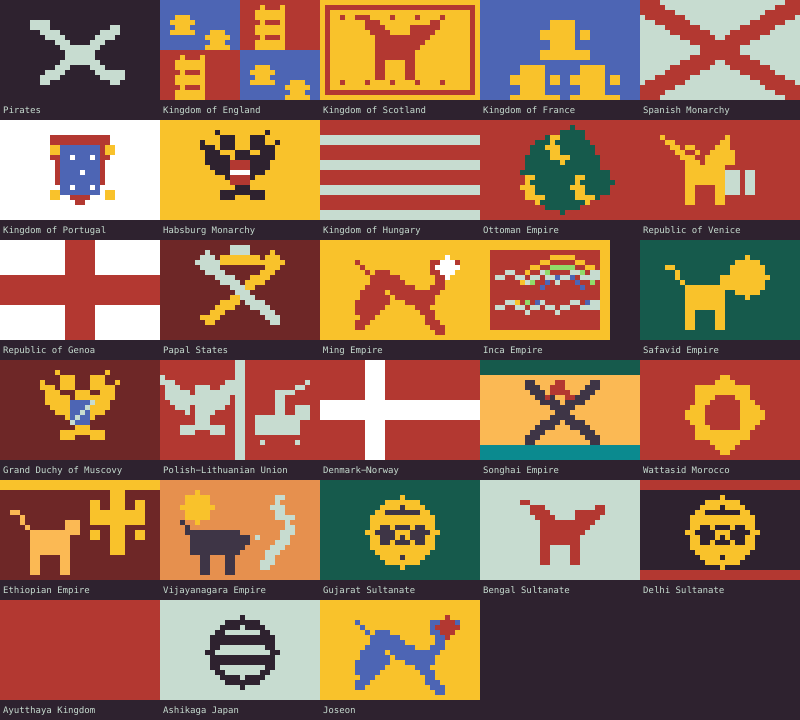
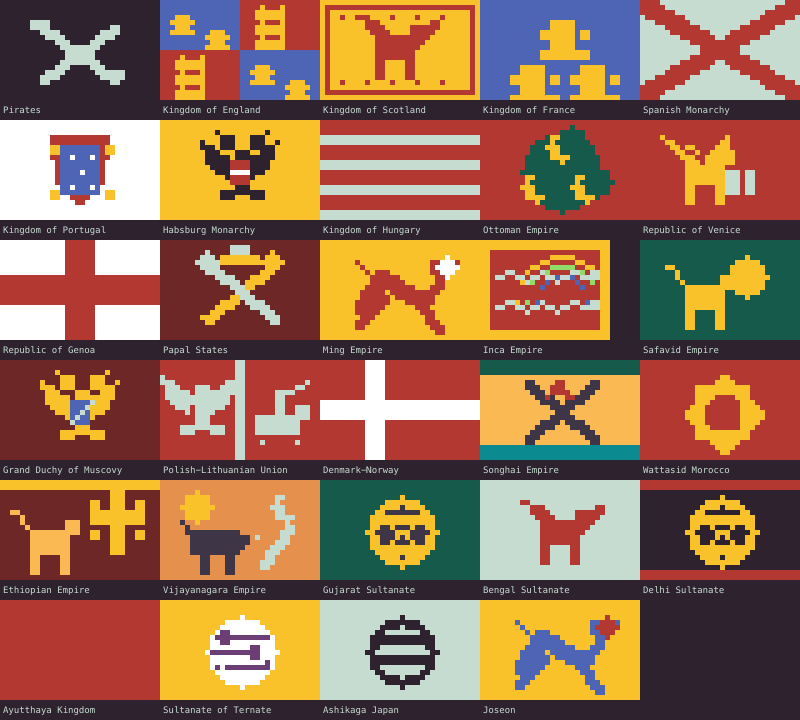
Add the Ternate Sultanate

Changed region(s): [[0.1875, 0.825, 0.8125, 1.0]]

diff --git a/apps/pixel-globe/src/factions.test.js b/apps/pixel-globe/src/factions.test.js
@@ -38,10 +38,13 @@ test("every faction separates its noun and adjective forms", () => {
   }
   const portugal = FACTIONS.find((faction) => faction.id === "portugal");
   const morocco = FACTIONS.find((faction) => faction.id === "morocco");
+  const ternate = FACTIONS.find((faction) => faction.id === "ternate");
   assert.equal(portugal.shortName, "Portugal");
   assert.equal(portugal.adjective, "Portuguese");
   assert.equal(morocco.shortName, "Morocco");
   assert.equal(morocco.adjective, "Moroccan");
+  assert.equal(ternate.shortName, "Ternate");
+  assert.equal(ternate.adjective, "Ternatan");
   assert.equal(factionNounPhrase("portugal"), "Portugal");
   assert.equal(factionNounPhrase("morocco"), "Morocco");
   assert.equal(factionNounPhrase("ottoman"), "the Ottoman Empire");
@@ -80,6 +83,9 @@ test("matrix captures clear 1522 alliances, wars, and neutral relationships", ()
   assert.equal(diplomacyBetween("ming", "japan"), DIPLOMACY_HOSTILE);
   assert.equal(diplomacyBetween("portugal", "ming"), DIPLOMACY_WAR);
   assert.equal(diplomacyBetween("venice", "genoa"), DIPLOMACY_HOSTILE);
+  assert.equal(diplomacyBetween("ternate", "spain"), DIPLOMACY_HOSTILE);
+  assert.equal(diplomacyBetween("ternate", "portugal"), DIPLOMACY_NEUTRAL);
+  assert.equal(diplomacyBetween("ternate", "ayutthaya"), DIPLOMACY_NEUTRAL);
   assert.equal(diplomacyBetween("inca", "muscovy"), DIPLOMACY_NEUTRAL);
   for (const faction of FACTIONS) {
     if (faction.id !== PIRATE_FACTION_ID) {
@@ -101,7 +107,9 @@ test("representative 1522 cities receive their governing faction", () => {
     ["Mexico City", "Mexico", "spain"],
     ["Cuzco", "Peru", "inca"],
     ["Cairo", "Egypt", "ottoman"],
-    ["Hafnarfjordur", "Iceland", "denmark-norway"]
+    ["Hafnarfjordur", "Iceland", "denmark-norway"],
+    ["Ternate", "Indonesia", "ternate"],
+    ["Makian Village", "Indonesia", "ternate"]
   ];
   for (const [city, country, factionId] of cases) {
     assert.equal(factionIdForCity1522({ city, country }), factionId, `${city}, ${country}`);
@@ -143,6 +151,7 @@ test("every sovereign faction has one declared water-accessible capital", () => 
     assert.equal(factionIdForCity1522(capital), capital.factionId, `${capital.city}, ${capital.country}`);
   }
   assert.equal(factionCapitalForId("ming").city, "Beijing");
+  assert.equal(factionCapitalForId("ternate").city, "Ternate");
 });
 
 test("required capital port records cover factions missing a suitable catalog city", () => {

diff --git a/apps/pixel-globe/src/gameState.js b/apps/pixel-globe/src/gameState.js
@@ -180,7 +180,7 @@ import {
 } from "./namedCrew.js";
 
 export const STARTING_DOUBLOONS = 360;
-export const GAME_STATE_VERSION = 39;
+export const GAME_STATE_VERSION = 40;
 export const PORT_NAVIGATION_REASON_NEW_SHIP = "NEW SHIP FOR SALE";
 export const PORT_NAVIGATION_REASON_TRADE_PRICE = "TRADE PRICE TIP";
 export const REPUTATION_MIN = -100;
@@ -422,7 +422,7 @@ export function validateGameState(state) {
 
 export function migrateGameState(state, shipStats) {
   if (state?.version === GAME_STATE_VERSION) return restoreLoadedGameState(state, shipStats);
-  if (![8, 9, 10, 11, 12, 13, 14, 15, 16, 17, 18, 19, 20, 21, 22, 23, 24, 25, 26, 27, 28, 29, 30, 31, 32, 33, 34, 35, 36, 37, 38].includes(state?.version)) {
+  if (![8, 9, 10, 11, 12, 13, 14, 15, 16, 17, 18, 19, 20, 21, 22, 23, 24, 25, 26, 27, 28, 29, 30, 31, 32, 33, 34, 35, 36, 37, 38, 39].includes(state?.version)) {
     throw new Error(`Unsupported game state version: ${state?.version ?? "missing"}`);
   }
   if (state.ship && (!shipStats || typeof shipStats !== "object")) {
@@ -495,8 +495,12 @@ export function migrateGameState(state, shipStats) {
       safePassageUntilMinute: state.version === 8
         ? {}
         : migrateSafePassageTable(state.relations.safePassageUntilMinute),
-      safePassageRefusalUntilMinute: {},
-      mingOpenTradeFactionIds: [...DEFAULT_MING_OPEN_TRADE_FACTION_IDS],
+      safePassageRefusalUntilMinute: migrateSafePassageTable(
+        state.relations.safePassageRefusalUntilMinute || {}
+      ),
+      mingOpenTradeFactionIds: migrateMingOpenTradeFactionIds(
+        state.relations.mingOpenTradeFactionIds
+      ),
       portugueseCartaz: migratePortugueseCartazMemory(state.relations.portugueseCartaz),
       diplomacy: migratedDiplomacy
     },
@@ -588,6 +592,15 @@ function migrateSafePassageTable(table) {
     migrated.spain = Math.max(migrated.spain || 0, table.aztec);
   }
   return migrated;
+}
+
+function migrateMingOpenTradeFactionIds(factionIds) {
+  if (!Array.isArray(factionIds)) return [...DEFAULT_MING_OPEN_TRADE_FACTION_IDS];
+  return [...new Set(factionIds.map(migrateFactionIdTo1522))].filter((factionId) => (
+    factionId !== MING_FACTION_ID &&
+    factionId !== NEUTRAL_FACTION_ID &&
+    factionId !== PIRATE_FACTION_ID
+  ));
 }
 
 function createPortugueseCartazMemory() {

diff --git a/apps/pixel-globe/src/campaignGoals.js b/apps/pixel-globe/src/campaignGoals.js
@@ -904,6 +904,10 @@ const FAMILY_DEBT_ORIGINS_BY_FACTION = Object.freeze({
     "Malacca lost a warehouse. I acquired excellent security.",
     "The warehouse was ours until the Portuguese took the city. It disappeared, but its bills crossed the sea intact."
   ),
+  ternate: debtOrigin(
+    "Cloves drew the Portuguese to your shore. Your family mistook their appetite for a guarantee.",
+    "We provisioned the alliance my father welcomed, then borrowed again when its promises soured. The cloves sold; our account did not."
+  ),
   japan: debtOrigin(
     "The Hosokawa changed sides. The terms of this note did not.",
     "Our house backed the wrong side at Funaokayama. The survivors changed allegiance; our creditors changed the seal."
@@ -940,6 +944,7 @@ const EXPLORER_PATRON_OUTLOOKS_BY_FACTION = Object.freeze({
   bengal: "Portuguese sails have reached Chittagong, bringing maps as uncertain as their intentions. We should know more than our visitors.",
   delhi: "Caravans describe oceans beyond Gujarat and Bengal, each story altered by ten merchants. I want one witness.",
   ayutthaya: "The Portuguese arrived after taking Malacca and now speak of seas beyond Africa. I would hear the world without their interpreter.",
+  ternate: "Portuguese stone rises beside our clove groves while Castilian sails favor Tidore. I want a Ternatan account of the world both crowns claim.",
   japan: "Ming merchants and island pilots carry fragments of distant coasts. I want them joined before rumor distorts them further.",
   joseon: "Our old world maps reach far beyond Joseon, but copied names are not witnessed places. A captain can test what scholars inherited."
 });

diff --git a/apps/pixel-globe/src/factions.js b/apps/pixel-globe/src/factions.js
@@ -43,6 +43,7 @@ export const FACTIONS = Object.freeze([
   faction("bengal", "Bengal Sultanate", "Bengal", "Bengali", "sultanate"),
   faction("delhi", "Delhi Sultanate", "Delhi", "Delhi", "sultanate"),
   faction("ayutthaya", "Ayutthaya Kingdom", "Ayutthaya", "Ayutthayan", "kingdom"),
+  faction("ternate", "Sultanate of Ternate", "Ternate", "Ternatan", "sultanate"),
   faction("japan", "Ashikaga Japan", "Japan", "Japanese", "shogunate"),
   faction("joseon", "Joseon", "Joseon", "Joseon", "kingdom")
 ]);
@@ -88,6 +89,7 @@ export const FACTION_CAPITALS_1522 = Object.freeze([
   capital("bengal", "Gauda", "India"),
   capital("delhi", "Delhi", "India"),
   capital("ayutthaya", "Ayutthaya", "Thailand"),
+  capital("ternate", "Ternate", "Indonesia"),
   capital("japan", "Kyoto", "Japan"),
   capital("joseon", "Seoul", "Republic of Korea")
 ]);
@@ -138,7 +140,8 @@ const HOSTILITIES_1522 = Object.freeze([
   ["venice", "genoa"],
   ["spain", "morocco"],
   ["ming", "japan"],
-  ["bengal", "delhi"]
+  ["bengal", "delhi"],
+  ["ternate", "spain"]
 ]);
 
 const WARS_1522 = Object.freeze([
@@ -235,7 +238,10 @@ const CITY_FACTION_OVERRIDES = uniqueMap([
   cityRule("Multan", "Pakistan", "delhi"),
 
   cityRule("Ayutthaya", "Thailand", "ayutthaya"),
-  cityRule("Sukhothai", "Thailand", "ayutthaya")
+  cityRule("Sukhothai", "Thailand", "ayutthaya"),
+
+  cityRule("Ternate", "Indonesia", "ternate"),
+  cityRule("Makian Village", "Indonesia", "ternate")
 ], "city faction overrides");
 
 const COUNTRY_FACTIONS = uniqueMap([

diff --git a/apps/pixel-globe/src/gameStateReputation.test.js b/apps/pixel-globe/src/gameStateReputation.test.js
@@ -219,6 +219,22 @@ test("version 21 voyages retire Aztec faction references into Spanish Mexico", (
   assert.equal(JSON.stringify(restored).includes("aztec"), false);
 });
 
+test("version 39 voyages gain neutral standing with the new Ternate Sultanate", () => {
+  const saved = createGameState({ cargoCapacity: 20, playerCharacter: PLAYER });
+  saved.version = 39;
+  delete saved.relations.factionReputation.ternate;
+  saved.relations.safePassageRefusalUntilMinute.portugal = 12345;
+  saved.relations.mingOpenTradeFactionIds.push("england");
+
+  const restored = migrateGameState(saved, null);
+
+  assert.equal(restored.version, GAME_STATE_VERSION);
+  assert.equal(restored.relations.factionReputation.ternate, 0);
+  assert.equal(restored.relations.safePassageRefusalUntilMinute.portugal, 12345);
+  assert.deepEqual(restored.relations.mingOpenTradeFactionIds, ["joseon", "england"]);
+  validateGameState(restored);
+});
+
 test("successful trade gives only a tiny faction reputation gain", () => {
   const economy = createWorldEconomy({ ports: [LONDON], startMinute: 0 });
   const state = createGameState({ cargoCapacity: 10, playerCharacter: PLAYER });

diff --git a/apps/pixel-globe/src/rulers.js b/apps/pixel-globe/src/rulers.js
@@ -98,6 +98,12 @@ const RAW_RULER_TIMELINES = Object.freeze({
     yearRuler(1546, "Yot Fa", "King"),
     yearRuler(1548, "Maha Chakkraphat", "King")
   ],
+  ternate: [
+    ruler(1522, 1, 1, "Abu Hayat", "Sultan"),
+    yearRuler(1529, "Dayal", "Sultan"),
+    yearRuler(1533, "Tabariji", "Sultan"),
+    yearRuler(1535, "Hairun Jamil", "Sultan")
+  ],
   japan: [
     ruler(1522, 1, 1, "Ashikaga Yoshiharu", "Shogun"),
     yearRuler(1546, "Ashikaga Yoshiteru", "Shogun")
@@ -117,7 +123,7 @@ const REGIONAL_GROUPS = Object.freeze([
   ["songhai", "morocco", "portugal"],
   ["ethiopia", "ottoman", "portugal", "safavid"],
   ["vijayanagara", "gujarat", "bengal", "delhi", "portugal", "safavid"],
-  ["ayutthaya", "ming", "bengal", "portugal"],
+  ["ayutthaya", "ming", "bengal", "portugal", "ternate"],
   ["ming", "japan", "joseon", "ayutthaya"],
   ["inca", "spain", "portugal"]
 ]);

diff --git a/apps/pixel-globe/src/rulers.test.js b/apps/pixel-globe/src/rulers.test.js
@@ -35,6 +35,9 @@ test("ruler succession happens at its queued date", () => {
   const safavidChange = gameMinuteForDate(1524, 5, 23);
   assert.equal(rulerAtMinute("safavid", safavidChange - 1).name, "Ismail I");
   assert.equal(rulerAtMinute("safavid", safavidChange).name, "Tahmasp I");
+
+  assert.equal(rulerAtMinute("ternate", 0).name, "Abu Hayat");
+  assert.equal(rulerAtMinute("ternate", gameMinuteForDate(1529, 1, 1)).name, "Dayal");
 });
 
 test("ruler change queue is chronological and excludes its starting boundary", () => {

diff --git a/apps/pixel-globe/docs/faction-flags.md b/apps/pixel-globe/docs/faction-flags.md
@@ -32,6 +32,7 @@ All pixels use the Resurrect 64 palette. Regenerate with `npm run render:faction
 | Bengal Sultanate | Red lion on white | `near-period-banner` | The red lion banner appears in the Catalan Atlas and the lion remained a Bengali sultanic emblem; a 1521 account also describes guards carrying lion-painted shields. Sources: [Bengal Sultanate flag evidence](https://commons.wikimedia.org/wiki/File:Bengal_Sultanate_flag.svg). |
 | Delhi Sultanate | Lodi black standard with coin roundel | `reconstruction` | No secure Lodi banner was found. Black references the Abbasid standard tradition reported for Delhi, while the gold roundel is adapted from sultanic coin calligraphy. Sources: [Delhi Sultanate flag traditions](https://en.wikipedia.org/wiki/Delhi_Sultanate). |
 | Ayutthaya Kingdom | Plain red Siamese ensign | `later-traditional-ensign` | Ayutthaya had no documented national flag in 1522. Plain red is the earliest recorded Siamese ensign, but the evidence begins under Narai in the later seventeenth century. Sources: [Thai Fine Arts Department flag history](https://www.finearts.go.th/storage/contents/2024/01/file/01sb4xTcSwsVGZ2fRvQiH76sPzDyOyZmmCdFB2yG.pdf). |
+| Sultanate of Ternate | Traditional yellow Ternate standard | `reconstruction` | No secure state flag survives from 1522. This reconstruction uses the later documented yellow Ternate standard with its white Jawi-inscribed disc, simplified for a 32x20 raster. Sources: [Flags of the Princely States of the Dutch East Indies](https://www.fiav.org/wp-content/uploads/2021/06/ICV2514-Marcel-van-Westerhoven-The-Flags-of-Princely-States-of-the-Dutch-East-Indies.pdf), [Portuguese fort at Ternate, 1522](https://www.defesa.gov.pt/pt/defesa/organizacao/comissoes/cphm/rphm/edicoes/ano3/n.5/5). |
 | Ashikaga Japan | Ashikaga futatsuhikiryo mon | `period-clan-heraldry` | The two-bar roundel is the Ashikaga clan crest, used here as shogunal heraldry rather than a Japanese national flag. Sources: [Ashikaga clan futatsuhikiryo](https://www.paxhistoria.co/flags/6a77b848-9ef3-444f-b1be-7f3166b633e4). |
 | Joseon | Yellow Dragon Flag | `period-royal-standard` | Joseon used a four-clawed dragon flag in royal processions. It represents the king's authority, not a modern Korean national flag. Sources: [Korean dragon flag tradition](https://smarthistory.org/korean-national-flag/), [Joseon Legendary Dragon Flag](https://artsandculture.google.com/asset/legendary-dragon-flag/pAG5Om1riEle4g?hl=en). |
 
